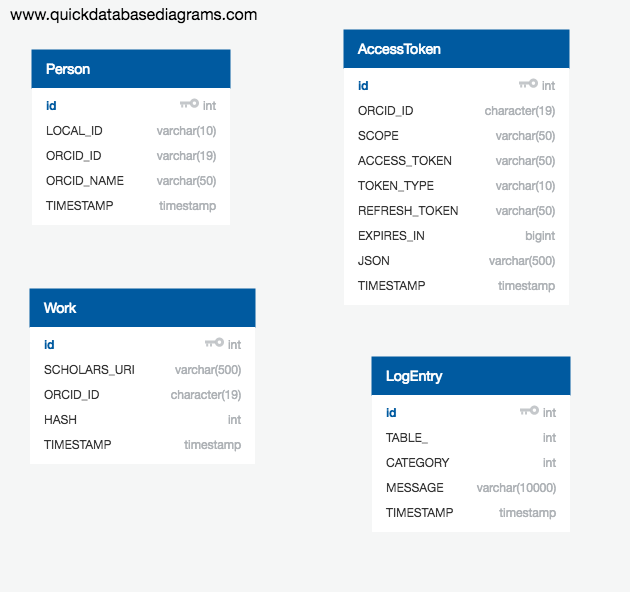
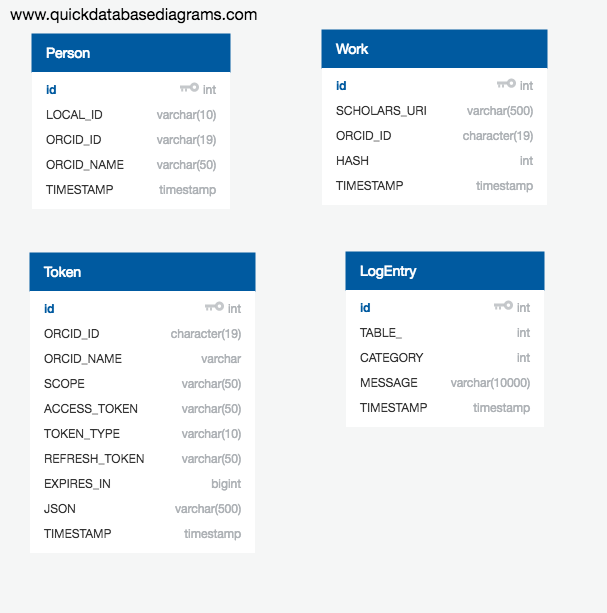
In the data layer, change the AccessToken table to Token. Avoid name conflicts.

diff --git a/scorconn-common/src/main/java/edu/cornell/library/scholars/orcidconnection/data/mapping/Token.java b/scorconn-common/src/main/java/edu/cornell/library/scholars/orcidconnection/data/mapping/Token.java
@@ -17,8 +17,8 @@ import org.hibernate.annotations.UpdateTimestamp;
  * TODO
  */
 @Entity
-@Table(name = "AccessToken")
-public class AccessToken {
+@Table(name = "Token")
+public class Token {
     @Id
     @GeneratedValue(strategy = GenerationType.AUTO)
     private int id;
@@ -26,6 +26,9 @@ public class AccessToken {
     // Should be a foreign key Person.OrcidId
     @Column(name = "ORCID_ID", nullable = false, length = 19)
     private String orcidId;
+
+    @Column(name = "ORCID_NAME", nullable = false)
+    private String orcidName;
 
     @Column(name = "SCOPE", nullable = false, length = 50)
     private String scope;
@@ -49,14 +52,15 @@ public class AccessToken {
     @Column(name = "TIMESTAMP")
     private Date timeStamp;
 
-    public AccessToken() {
+    public Token() {
         // Required by Hibernate.
     }
 
-    public AccessToken(String orcidId, String scope, String accessToken,
-            String tokenType, String refreshToken, long expiresIn,
-            String json) {
+    public Token(String orcidId, String orcidName, String scope,
+            String accessToken, String tokenType, String refreshToken,
+            long expiresIn, String json) {
         this.orcidId = orcidId;
+        this.orcidName = orcidName;
         this.scope = scope;
         this.accessToken = accessToken;
         this.tokenType = tokenType;
@@ -77,8 +81,17 @@ public class AccessToken {
         return orcidId;
     }
 
-    public AccessToken setOrcidId(String orcidId) {
+    public Token setOrcidId(String orcidId) {
         this.orcidId = orcidId;
+        return this;
+    }
+
+    public String getOrcidName() {
+        return orcidName;
+    }
+
+    public Token setOrcidName(String orcidName) {
+        this.orcidName = orcidName;
         return this;
     }
 
@@ -86,7 +99,7 @@ public class AccessToken {
         return scope;
     }
 
-    public AccessToken setScope(String scope) {
+    public Token setScope(String scope) {
         this.scope = scope;
         return this;
     }
@@ -95,7 +108,7 @@ public class AccessToken {
         return accessToken;
     }
 
-    public AccessToken setAccessToken(String accessToken) {
+    public Token setAccessToken(String accessToken) {
         this.accessToken = accessToken;
         return this;
     }
@@ -104,7 +117,7 @@ public class AccessToken {
         return tokenType;
     }
 
-    public AccessToken setTokenType(String tokenType) {
+    public Token setTokenType(String tokenType) {
         this.tokenType = tokenType;
         return this;
     }
@@ -113,7 +126,7 @@ public class AccessToken {
         return refreshToken;
     }
 
-    public AccessToken setRefreshToken(String refreshToken) {
+    public Token setRefreshToken(String refreshToken) {
         this.refreshToken = refreshToken;
         return this;
     }
@@ -122,7 +135,7 @@ public class AccessToken {
         return expiresIn;
     }
 
-    public AccessToken setExpiresIn(long expiresIn) {
+    public Token setExpiresIn(long expiresIn) {
         this.expiresIn = expiresIn;
         return this;
     }
@@ -131,7 +144,7 @@ public class AccessToken {
         return json;
     }
 
-    public AccessToken setJson(String json) {
+    public Token setJson(String json) {
         this.json = json;
         return this;
     }
@@ -147,11 +160,11 @@ public class AccessToken {
     @Override
     public String toString() {
         return String.format(
-                "AccessToken[id=%s, orcidId=%s, scope=%s, accessToken=%s, "
-                        + "tokenType=%s, refreshToken=%s, expiresIn=%s, "
-                        + "json=%s, timeStamp=%s]",
-                id, orcidId, scope, accessToken, tokenType, refreshToken,
-                expiresIn, json, timeStamp);
+                "AccessToken[id=%s, orcidId=%s, orcidName=%s, scope=%s, "
+                        + "accessToken=%s, tokenType=%s, refreshToken=%s, "
+                        + "expiresIn=%s, json=%s, timeStamp=%s]",
+                id, orcidId, orcidName, scope, accessToken, tokenType,
+                refreshToken, expiresIn, json, timeStamp);
     }
 
 }

diff --git a/scorconn-common/src/main/java/edu/cornell/library/scholars/orcidconnection/accesstokens/AccessTokenCacheDataLayerImpl.java b/scorconn-common/src/main/java/edu/cornell/library/scholars/orcidconnection/accesstokens/AccessTokenCacheDataLayerImpl.java
@@ -9,9 +9,10 @@ import edu.cornell.library.orcidclient.exceptions.OrcidClientException;
 import edu.cornell.library.scholars.orcidconnection.data.DataLayer;
 import edu.cornell.library.scholars.orcidconnection.data.DataLayerException;
 import edu.cornell.library.scholars.orcidconnection.data.mapping.Person;
+import edu.cornell.library.scholars.orcidconnection.data.mapping.Token;
 
 /**
- * TODO
+ * An implementation of AccessTokenCache based on the Hibernate data layer.
  */
 public class AccessTokenCacheDataLayerImpl implements AccessTokenCache {
 
@@ -38,12 +39,10 @@ public class AccessTokenCacheDataLayerImpl implements AccessTokenCache {
         try {
             DataLayer.instance().writePerson(
                     new Person(localId, token.getOrcid(), token.getName()));
-            DataLayer.instance().writeAccessToken(
-                    new edu.cornell.library.scholars.orcidconnection.data.mapping.AccessToken(
-                            token.getOrcid(), token.getScope().getScope(),
-                            token.getToken(), token.getType(),
-                            token.getRefreshToken(), token.getExpiresIn(),
-                            token.getJsonString()));
+            DataLayer.instance().writeAccessToken(new Token(token.getOrcid(),
+                    token.getName(), token.getScope().getScope(),
+                    token.getToken(), token.getType(), token.getRefreshToken(),
+                    token.getExpiresIn(), token.getJsonString()));
         } catch (DataLayerException e) {
             throw new OrcidClientException("Failed to write the access token.",
                     e);
@@ -57,8 +56,7 @@ public class AccessTokenCacheDataLayerImpl implements AccessTokenCache {
             if (person == null) {
                 return null;
             }
-            edu.cornell.library.scholars.orcidconnection.data.mapping.AccessToken token = DataLayer
-                    .instance()
+            Token token = DataLayer.instance()
                     .findAccessToken(person.getOrcidId(), scope.getScope());
             if (token == null) {
                 return null;
@@ -66,7 +64,7 @@ public class AccessTokenCacheDataLayerImpl implements AccessTokenCache {
                 return new AccessToken(token.getJson(), token.getAccessToken(),
                         token.getTokenType(), token.getRefreshToken(),
                         token.getExpiresIn(), ApiScope.parse(token.getScope()),
-                        "BOGUS", token.getOrcidId());
+                        token.getOrcidName(), token.getOrcidId());
             }
         } catch (DataLayerException e) {
             throw new OrcidClientException("Failed to read the access token.",

diff --git a/scorconn-common/src/main/java/edu/cornell/library/scholars/orcidconnection/data/DataLayerImpl.java b/scorconn-common/src/main/java/edu/cornell/library/scholars/orcidconnection/data/DataLayerImpl.java
@@ -3,7 +3,7 @@
 package edu.cornell.library.scholars.orcidconnection.data;
 
 import static edu.cornell.library.scholars.orcidconnection.data.mapping.LogEntry.Category.ADD;
-import static edu.cornell.library.scholars.orcidconnection.data.mapping.LogEntry.Table.ACCESS_TOKEN;
+import static edu.cornell.library.scholars.orcidconnection.data.mapping.LogEntry.Table.TOKEN;
 import static edu.cornell.library.scholars.orcidconnection.data.mapping.LogEntry.Table.PERSON;
 import static edu.cornell.library.scholars.orcidconnection.data.mapping.LogEntry.Table.WORK;
 
@@ -15,7 +15,7 @@ import org.hibernate.SessionFactory;
 import org.hibernate.Transaction;
 import org.hibernate.query.Query;
 
-import edu.cornell.library.scholars.orcidconnection.data.mapping.AccessToken;
+import edu.cornell.library.scholars.orcidconnection.data.mapping.Token;
 import edu.cornell.library.scholars.orcidconnection.data.mapping.LogEntry;
 import edu.cornell.library.scholars.orcidconnection.data.mapping.Person;
 import edu.cornell.library.scholars.orcidconnection.data.mapping.Work;
@@ -35,27 +35,26 @@ public class DataLayerImpl extends DataLayer {
     }
 
     @Override
-    public void writeAccessToken(AccessToken accessToken)
-            throws DataLayerException {
+    public void writeAccessToken(Token accessToken) throws DataLayerException {
         deleteThese(findAccessTokens(accessToken.getOrcidId(),
                 accessToken.getScope()));
         writeToDatabase(s -> {
             s.save(accessToken);
         });
-        writeLogEntry(new LogEntry(ACCESS_TOKEN, ADD, accessToken.toString()));
+        writeLogEntry(new LogEntry(TOKEN, ADD, accessToken.toString()));
     }
 
     @Override
-    public AccessToken findAccessToken(String orcidId, String scope)
+    public Token findAccessToken(String orcidId, String scope)
             throws DataLayerException {
         return justOne(findAccessTokens(orcidId, scope));
     }
 
-    private List<AccessToken> findAccessTokens(String orcidId, String scope)
+    private List<Token> findAccessTokens(String orcidId, String scope)
             throws DataLayerException {
         return readFromDatabase(s -> {
-            String hql = "FROM AccessToken WHERE orcidId = :orcidId AND scope = :scope";
-            Query<AccessToken> query = s.createQuery(hql, AccessToken.class);
+            String hql = "FROM Token WHERE orcidId = :orcidId AND scope = :scope";
+            Query<Token> query = s.createQuery(hql, Token.class);
             query.setParameter("orcidId", orcidId);
             query.setParameter("scope", scope);
             return query;

diff --git a/scorconn-common/src/main/java/edu/cornell/library/scholars/orcidconnection/data/DataLayer.java b/scorconn-common/src/main/java/edu/cornell/library/scholars/orcidconnection/data/DataLayer.java
@@ -7,17 +7,16 @@ import java.util.List;
 import org.apache.commons.logging.Log;
 import org.apache.commons.logging.LogFactory;
 
-import edu.cornell.library.scholars.orcidconnection.data.mapping.AccessToken;
 import edu.cornell.library.scholars.orcidconnection.data.mapping.LogEntry;
 import edu.cornell.library.scholars.orcidconnection.data.mapping.Person;
+import edu.cornell.library.scholars.orcidconnection.data.mapping.Token;
 import edu.cornell.library.scholars.orcidconnection.data.mapping.Work;
-import edu.cornell.library.scholars.orcidconnection.scholarslink.ScholarsLink;
 
 /**
  * A wrapper around the persistence layer.
  */
 public abstract class DataLayer {
-    private static final Log log = LogFactory.getLog(ScholarsLink.class);
+    private static final Log log = LogFactory.getLog(DataLayer.class);
 
     // ----------------------------------------------------------------------
     // The factory
@@ -44,10 +43,10 @@ public abstract class DataLayer {
 
     public abstract void checkConnection() throws DataLayerException;
 
-    public abstract void writeAccessToken(AccessToken accessToken)
+    public abstract void writeAccessToken(Token accessToken)
             throws DataLayerException;
 
-    public abstract AccessToken findAccessToken(String localId, String scope)
+    public abstract Token findAccessToken(String localId, String scope)
             throws DataLayerException;
 
     public abstract void writePerson(Person person) throws DataLayerException;
@@ -81,12 +80,12 @@ public abstract class DataLayer {
         }
 
         @Override
-        public void writeAccessToken(AccessToken accessToken) {
+        public void writeAccessToken(Token accessToken) {
             throw new IllegalStateException(MESSAGE);
         }
 
         @Override
-        public AccessToken findAccessToken(String localId, String scope) {
+        public Token findAccessToken(String localId, String scope) {
             throw new IllegalStateException(MESSAGE);
         }
 

diff --git a/scorconn-common/src/main/java/edu/cornell/library/scholars/orcidconnection/data/mapping/LogEntry.java b/scorconn-common/src/main/java/edu/cornell/library/scholars/orcidconnection/data/mapping/LogEntry.java
@@ -26,7 +26,7 @@ public class LogEntry {
     private static final Log log = LogFactory.getLog(LogEntry.class);
 
     public enum Table {
-        NONE, ACCESS_TOKEN, PERSON, WORK
+        NONE, TOKEN, PERSON, WORK
     }
 
     public enum Category {

diff --git a/doc/Scorconn_TO_DO.md b/doc/Scorconn_TO_DO.md
@@ -36,16 +36,9 @@
 			* Different depending on status: schedule the update, or login to ORCID and ask permission
 			* Both require CUWebLogin
 	* At completion, link back to Scholars profile page.
-* AccessToken table contains no OrcidName (or whatever name is in AccessToken)
-	* Fix AccessTokenCacheDataLayerImpl.
-	* Change AccessToken table to Token table
 * Clean up the AuthToken testing
 	* PersonStatusApiController should look at the AccessToken date as well
 	as the Work dates
-* In the data layer, AccessToken table becomes Token table. The class changes too.
-* Create a real persistence cache
-* Clean up ProcessPushRequestController
-	* Use AbstractServletCore
 * Test pub logic:
 	* Delete a pub from ORCID site -- Modify on scholars -- push -- it is ignored
 	* Delete from the database -- push -- it is no longer ignored. 

diff --git a/doc/ScorconnDeveloperNotes.md b/doc/ScorconnDeveloperNotes.md
@@ -26,7 +26,7 @@
 		and reporting a list of complaints.
 * Otherwise, if there is more than one record for a local ID, use the most recent.
 
-### AccessToken table
+### Token table
 * Holds all sorts of information about an access token. 
 * Record is added when the user grants permission for a particular scope of access. 
 * Record is replaced if the user rescinds permission, and then grants it again.
@@ -42,7 +42,7 @@ to determin whether an update is needed.
 
 ### LogEntry table
 * Add a record for any change in the other tables, CATEGORY is add, update, or delete, and TABLE_ is work, 
-person, or accessToken.
+person, or token.
 * Add a record for other significant events (such as what?). CATEGORY is INFO or ERROR, and TABLE_ is none.
 
 ## Messages syntax
